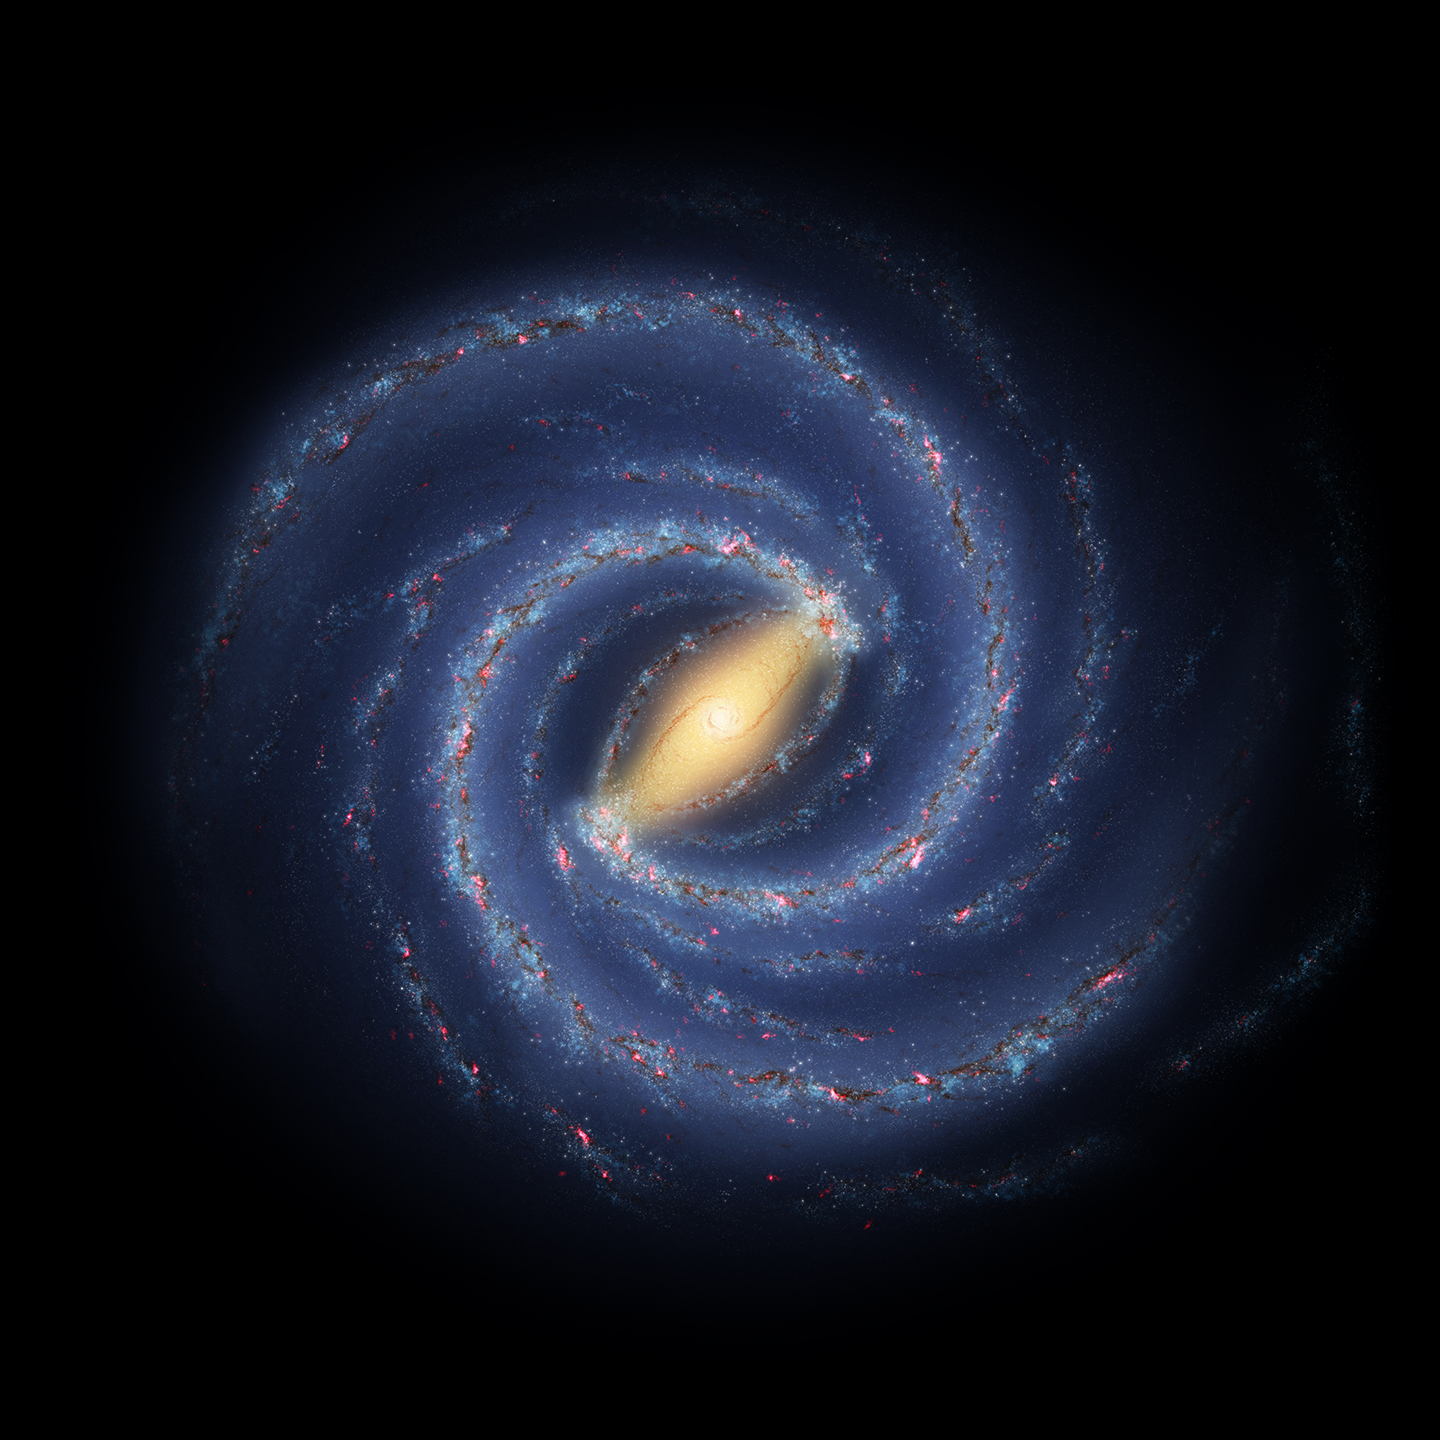
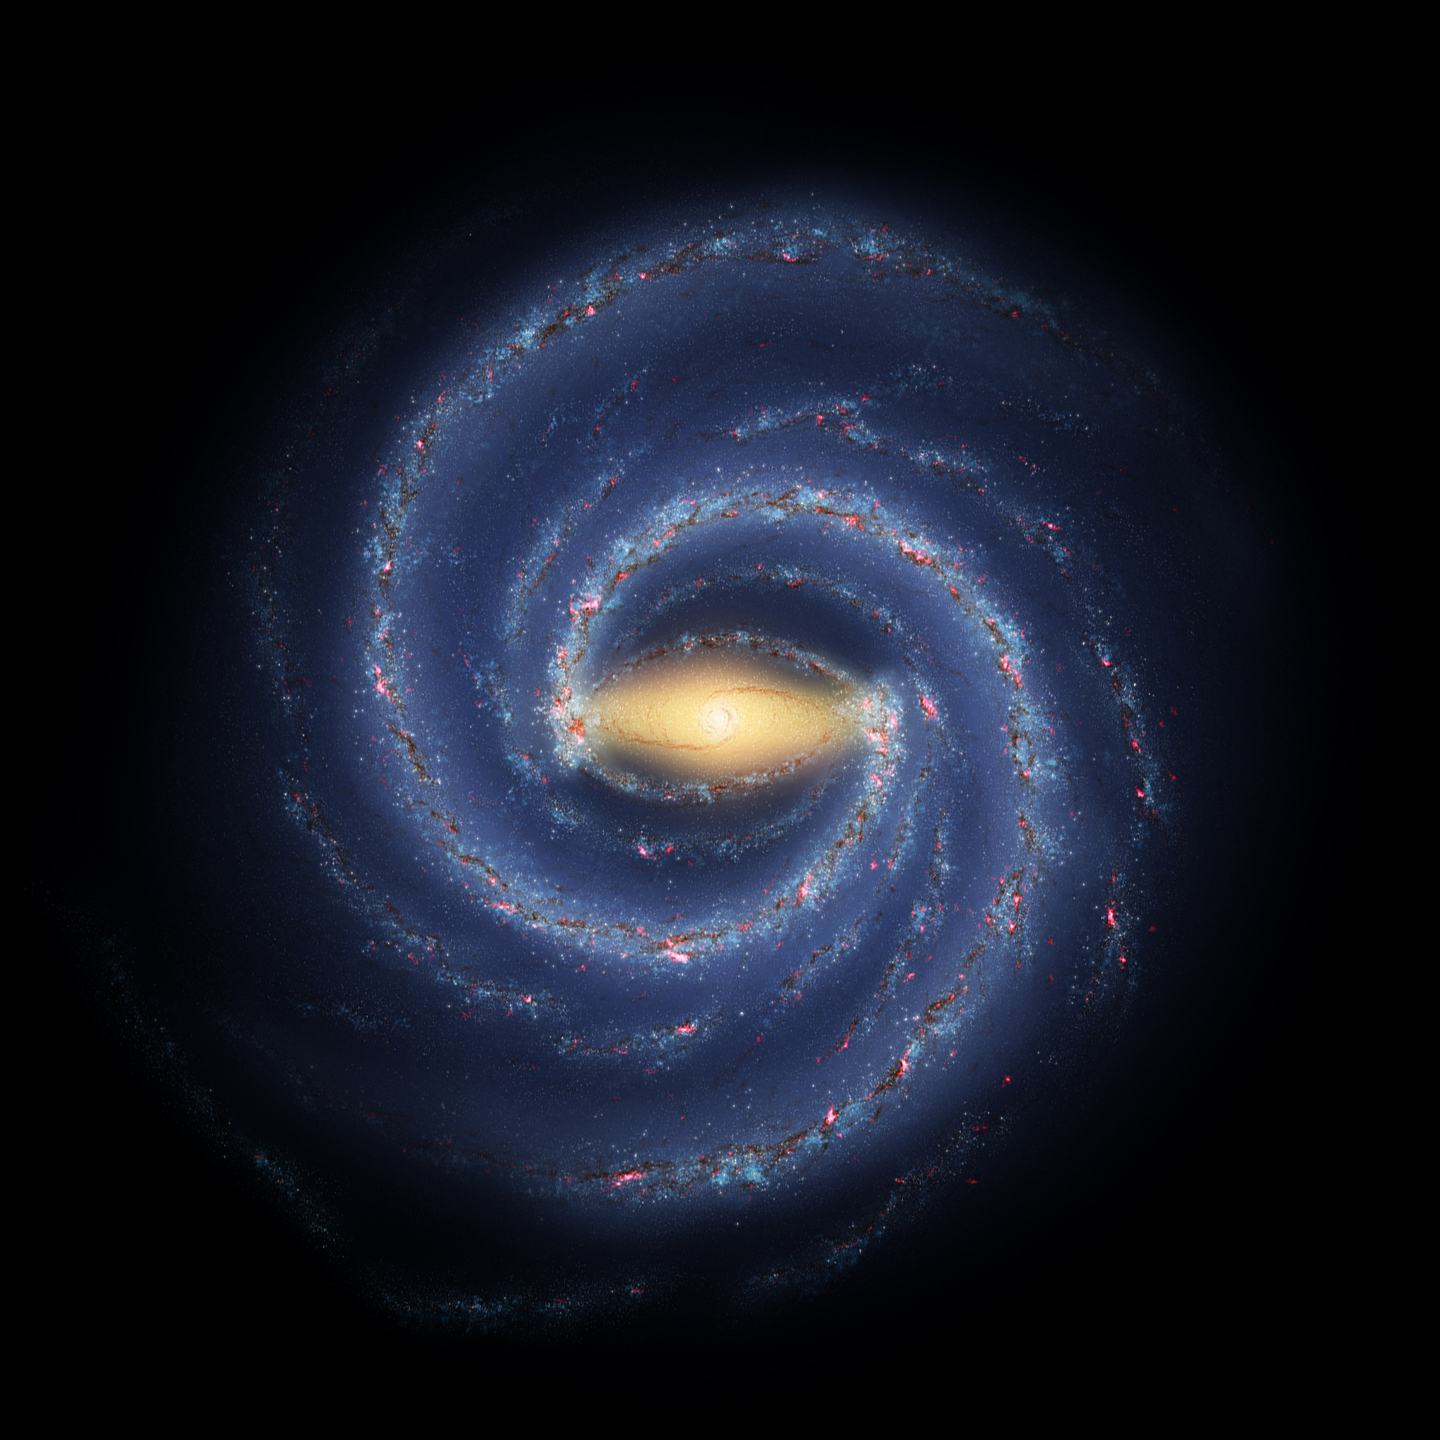
Fixed galaxy view scaling for solar systems. Flipped galaxy image so it matches general spin of solar systems.

diff --git a/public/js/galaxy-map.js b/public/js/galaxy-map.js
@@ -37,8 +37,10 @@ $(document).ready(function() {
 		iconContainer.append(iconInner);
 		
 		// Set the x/y-coordinate of the icon relative to the galaxy map.
-		var xPercent = (systemLocation[0] + (galaxyMapWidth / 2)) / galaxyMapWidth * 100;
-		var yPercent = (systemLocation[1] + (galaxyMapHeight / 2)) / galaxyMapHeight * 100;
+		// The galaxy algorithm assumes the x-max and y-max are 1000. It generates coordinates around the (0, 0) point,
+		// so we must move to the center (add 500) and divide by the width/height to get the percent.
+		var xPercent = (systemLocation[0] + 500) / 1000 * 100;
+		var yPercent = (systemLocation[1] + 500) / 1000 * 100;
 		
 		// Set the icon's position as percents. The icon is 16px wide so subtract 8px from the percent
 		// to center the icon at its position.
